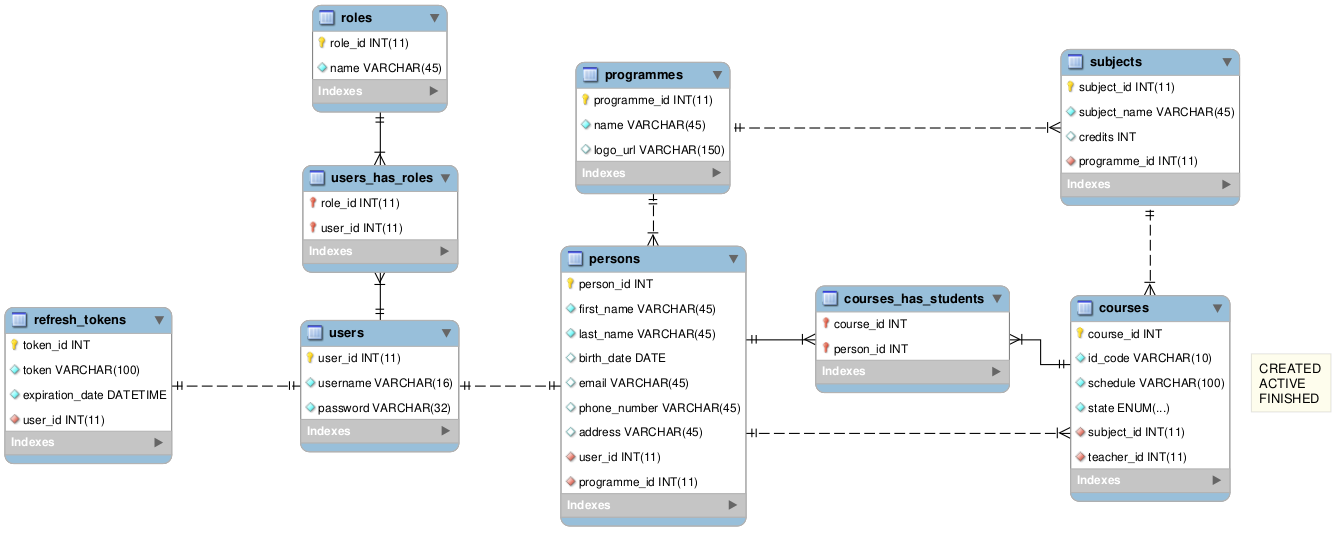
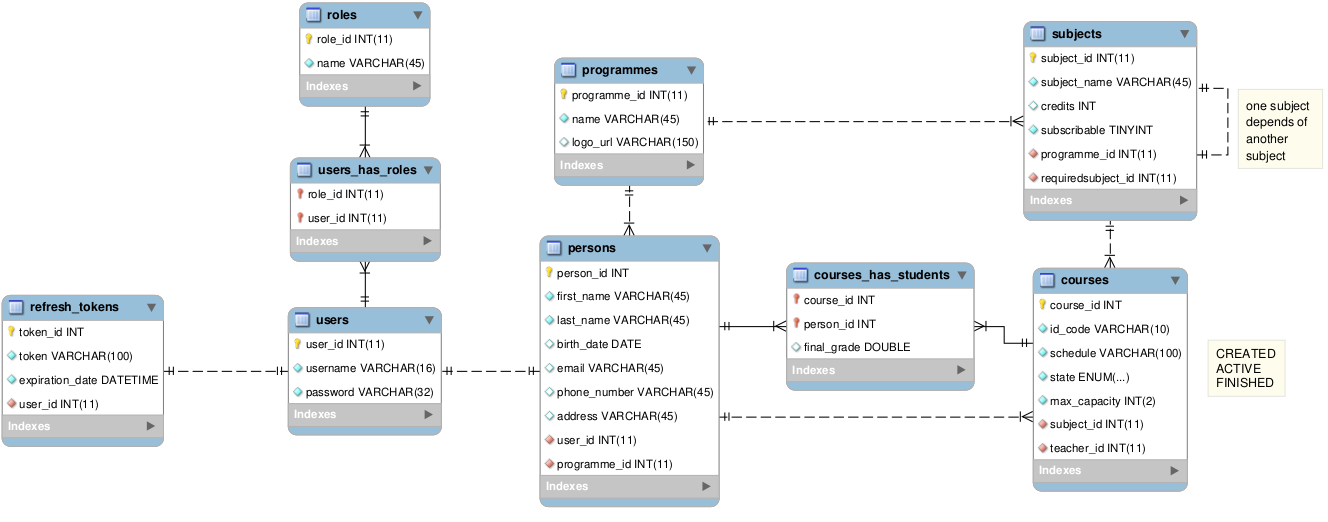
Subject service methods

Changed region(s): [[0.0, 0.0307, 0.988, 0.9808], [0.2161, 0.2759, 0.3396, 0.5211], [0.2161, 0.0, 0.3396, 0.2146]]

diff --git a/src/main/java/pra/luis/eduapp/eduapp/subjects/service/SubjectService.java b/src/main/java/pra/luis/eduapp/eduapp/subjects/service/SubjectService.java
@@ -2,14 +2,21 @@ package pra.luis.eduapp.eduapp.subjects.service;
 
 import jakarta.persistence.EntityNotFoundException;
 import lombok.AllArgsConstructor;
-import org.springframework.beans.factory.annotation.Autowired;
+import lombok.NonNull;
+import org.springframework.data.domain.Page;
+import org.springframework.data.domain.Pageable;
+import org.springframework.data.jpa.domain.Specification;
 import org.springframework.stereotype.Service;
 import pra.luis.eduapp.eduapp.programmes.model.Programme;
 import pra.luis.eduapp.eduapp.programmes.services.ProgrammeService;
+import pra.luis.eduapp.eduapp.subjects.model.FullSubjectDTO;
 import pra.luis.eduapp.eduapp.subjects.model.Subject;
 import pra.luis.eduapp.eduapp.subjects.model.SubjectDTO;
+import pra.luis.eduapp.eduapp.subjects.model.SubjectSubcribeDTO;
 import pra.luis.eduapp.eduapp.subjects.repository.SubjectRepository;
 import pra.luis.eduapp.eduapp.utils.EntityWithExistingFieldException;
+
+import java.util.function.Supplier;
 
 /**
  * @author luE11 on 22/06/23
@@ -23,15 +30,67 @@ public class SubjectService {
     public Subject insert(SubjectDTO subjectDTO) throws EntityWithExistingFieldException {
         if(subjectRepository.existsBySubjectName(subjectDTO.getSubjectName()))
             throw new EntityWithExistingFieldException("The subject name is already used by another record");
-        Programme subjectProgramme = programmeService.findById(subjectDTO.getProgrammeId())
-                .orElseThrow(() -> new EntityNotFoundException("Programme of id "+subjectDTO.getProgrammeId()+ " not found"));
-        Subject requiredPrevSubject = null;
-        if(subjectDTO.getRequiredSubjectId()!=null)
-            requiredPrevSubject = subjectRepository.findById(subjectDTO.getRequiredSubjectId())
-                    .orElseThrow(() -> new EntityNotFoundException("Subject of id "+subjectDTO.getRequiredSubjectId()+ " not found"));
+        Programme subjectProgramme = getProgrammeById(subjectDTO.getProgrammeId());
+        Subject requiredPrevSubject = getRequiredPrevSubject(subjectDTO.getRequiredSubjectId());
         Subject subject = subjectDTO.toSubject();
         subject.setRequiredSubject(requiredPrevSubject);
         subject.setProgramme(subjectProgramme);
         return subjectRepository.save(subject);
+    }
+
+    public FullSubjectDTO findById(Integer id){
+        Subject subject = subjectRepository.findById(id)
+                .orElseThrow(generateSubjectNotFoundException(id));
+        return new FullSubjectDTO(subject);
+    }
+
+    public Page<Subject> findAll(Specification<Subject> spec, @NonNull Pageable pageable){
+        return subjectRepository.findAll(spec, pageable);
+    }
+
+    public Subject update(Integer id, Subject updated){
+        return subjectRepository.findById(id)
+                .map((found) -> {
+                    found.updateProperties(updated);
+                    return subjectRepository.save(found);
+                })
+                .orElseThrow(generateSubjectNotFoundException(id));
+    }
+
+    public void delete(Integer id){
+        if(!subjectRepository.existsById(id))
+            throw generateSubjectNotFoundException(id).get();
+        subjectRepository.deleteById(id);
+    }
+
+    /**
+     * Patch canSubscribe attribute
+     * @param id
+     * @param subcribeDTO
+     * @return
+     */
+    public Subject patchSubscribable(Integer id, SubjectSubcribeDTO subcribeDTO){
+        return subjectRepository.findById(id)
+                .map((found) -> {
+                    found.setSubscribable(subcribeDTO.isSubscribable());
+                    return subjectRepository.save(found);
+                })
+                .orElseThrow(generateSubjectNotFoundException(id));
+    }
+
+    private Programme getProgrammeById(Integer id){
+        return programmeService.findById(id)
+                .orElseThrow(() -> new EntityNotFoundException("Programme of id "+id+ " not found"));
+    }
+
+    private Subject getRequiredPrevSubject(Integer subjectId){
+        if(subjectId!=null)
+            return subjectRepository.findById(subjectId)
+                    .orElseThrow(generateSubjectNotFoundException(subjectId));
+        return null;
+    }
+
+    private Supplier<EntityNotFoundException> generateSubjectNotFoundException(Integer id){
+        return () -> new EntityNotFoundException("Subject of id "+id+ " not found");
     }
 }

diff --git a/src/main/java/pra/luis/eduapp/eduapp/subjects/model/Subject.java b/src/main/java/pra/luis/eduapp/eduapp/subjects/model/Subject.java
@@ -25,7 +25,7 @@ public class Subject {
     protected String subject_name;
     protected int credits;
     /** False by default. Indicates if a subject course can be taken by students */
-    protected boolean canSubscribe;
+    protected boolean subscribable;
     @JsonIgnore
     @OneToOne
     @JoinColumn(name = "programme_id", referencedColumnName = "programme_id", nullable = false)
@@ -38,18 +38,27 @@ public class Subject {
     @JoinColumn(name = "requiredsubject_id", referencedColumnName = "subject_id", nullable = false)
     protected Subject requiredSubject;
 
-    public Subject(String subject_name, int credits, boolean canSubscribe) {
+    public Subject(String subject_name, int credits, boolean subscribable) {
         this.subject_name = subject_name;
         this.credits = credits;
-        this.canSubscribe = canSubscribe;
+        this.subscribable = subscribable;
     }
 
-    public Subject(String subject_name, int credits, boolean canSubscribe,
+    public Subject(String subject_name, int credits, boolean subscribable,
                    Programme programme, Subject requiredSubject) {
         this.subject_name = subject_name;
         this.credits = credits;
-        this.canSubscribe = canSubscribe;
+        this.subscribable = subscribable;
         this.programme = programme;
         this.requiredSubject = requiredSubject;
+    }
+
+    /**
+     * Updates base attributes of subject by overwritting from another subject object
+     * @param subject Subject object from which attributes will be updated
+     */
+    public void updateProperties(Subject subject){
+        this.subject_name = subject.subject_name;
+        this.credits = subject.credits;
     }
 }

diff --git a/src/main/java/pra/luis/eduapp/eduapp/subjects/model/FullSubjectDTO.java b/src/main/java/pra/luis/eduapp/eduapp/subjects/model/FullSubjectDTO.java
@@ -1,18 +1,24 @@
 package pra.luis.eduapp.eduapp.subjects.model;
 
-import jakarta.validation.constraints.NotNull;
+import lombok.Getter;
+import lombok.Setter;
+import pra.luis.eduapp.eduapp.programmes.model.Programme;
 
 /**
  * DTO class for consult single subject response
  * @author luE11 on 22/06/23
  */
+@Getter
+@Setter
 public class FullSubjectDTO extends BaseSubjectDTO {
 
-    /*
-    programa, asignatura requerida, cursos?
-     */
+    private Programme programme;
+    private Subject requiredSubject;
+    // Listado cursos asociados
 
-    public FullSubjectDTO(@NotNull(message = "subject name field is required") String subjectName, @NotNull(message = "credits field is required") int credits, boolean canSubscribe) {
-        super(subjectName, credits, canSubscribe);
+    public FullSubjectDTO(Subject subject) {
+        super(subject.getSubject_name(), subject.getCredits(), subject.isSubscribable());
+        this.programme = subject.getProgramme();
+        this.requiredSubject = subject.getRequiredSubject();
     }
 }

diff --git a/src/main/java/pra/luis/eduapp/eduapp/subjects/model/SubjectDTO.java b/src/main/java/pra/luis/eduapp/eduapp/subjects/model/SubjectDTO.java
@@ -1,6 +1,5 @@
 package pra.luis.eduapp.eduapp.subjects.model;
 
-import jakarta.validation.constraints.NotNull;
 import lombok.Getter;
 import lombok.Setter;
 
@@ -14,14 +13,14 @@ public class SubjectDTO extends BaseSubjectDTO {
     protected int programmeId;
     protected Integer requiredSubjectId;
 
-    public SubjectDTO(String subjectName, int credits, boolean canSubscribe,
+    public SubjectDTO(String subjectName, int credits, boolean subscribable,
                       int programmeId, Integer requiredSubjectId){
-        super(subjectName, credits, canSubscribe);
+        super(subjectName, credits, subscribable);
         this.programmeId = programmeId;
         this.requiredSubjectId = requiredSubjectId;
     }
 
     public Subject toSubject(){
-        return new Subject(this.subjectName, this.credits, this.canSubscribe);
+        return new Subject(this.subjectName, this.credits, this.subscribable);
     }
 }

diff --git a/src/main/java/pra/luis/eduapp/eduapp/subjects/model/BaseSubjectDTO.java b/src/main/java/pra/luis/eduapp/eduapp/subjects/model/BaseSubjectDTO.java
@@ -3,6 +3,7 @@ package pra.luis.eduapp.eduapp.subjects.model;
 import jakarta.validation.constraints.NotNull;
 import lombok.AllArgsConstructor;
 import lombok.Getter;
+import lombok.NoArgsConstructor;
 import lombok.Setter;
 
 /**
@@ -10,12 +11,13 @@ import lombok.Setter;
  */
 @Getter
 @Setter
+@NoArgsConstructor
 @AllArgsConstructor
 public abstract class BaseSubjectDTO {
     @NotNull(message = "subject name field is required")
     protected String subjectName;
     @NotNull(message = "credits field is required")
     protected int credits;
-    protected boolean canSubscribe = false;
+    protected boolean subscribable = false;
 
 }

diff --git a/src/main/java/pra/luis/eduapp/eduapp/subjects/model/SubjectSubcribeDTO.java b/src/main/java/pra/luis/eduapp/eduapp/subjects/model/SubjectSubcribeDTO.java
@@ -1,0 +1,21 @@
+package pra.luis.eduapp.eduapp.subjects.model;
+
+import jakarta.validation.constraints.NotNull;
+
+/**
+ * @author luE11 on 23/06/23
+ */
+public class SubjectSubcribeDTO {
+    @NotNull
+    protected boolean subscribable = false;
+
+    public SubjectSubcribeDTO(){ }
+
+    public SubjectSubcribeDTO(boolean subscribable) {
+        this.subscribable = subscribable;
+    }
+
+    public boolean isSubscribable(){
+        return this.subscribable;
+    }
+}

diff --git a/src/main/java/pra/luis/eduapp/eduapp/programmes/services/ProgrammeService.java b/src/main/java/pra/luis/eduapp/eduapp/programmes/services/ProgrammeService.java
@@ -55,11 +55,11 @@ public class ProgrammeService {
     }
 
     private String getInitials(String phrase){
-        String initials = "";
+        StringBuilder initials = new StringBuilder();
         for (String s : phrase.split(" ")) {
-            initials+=s.charAt(0);
+            initials.append(s.charAt(0));
         }
-        return initials;
+        return initials.toString();
     }
 
 }

diff --git a/src/main/java/pra/luis/eduapp/eduapp/subjects/controller/SubjectController.java b/src/main/java/pra/luis/eduapp/eduapp/subjects/controller/SubjectController.java
@@ -1,0 +1,7 @@
+package pra.luis.eduapp.eduapp.subjects.controller;
+
+/**
+ * @author luE11 on 23/06/23
+ */
+public class SubjectController {
+}
